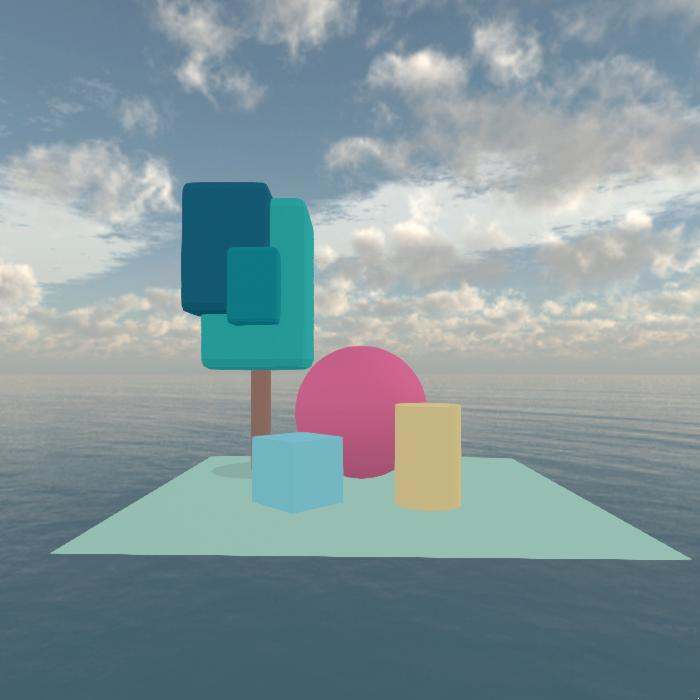
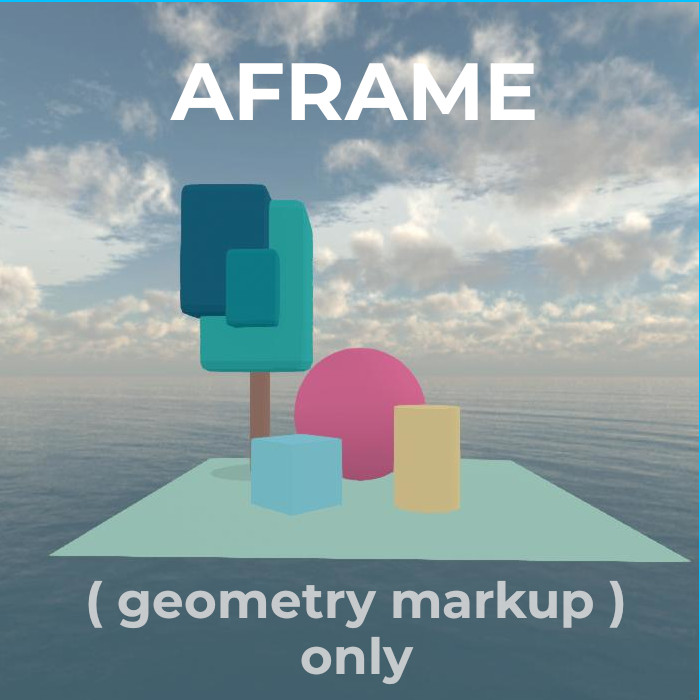
update

diff --git a/myverse/janusxr_tutorial/AFRAME/index.html b/myverse/janusxr_tutorial/AFRAME/index.html
@@ -1,3 +1,4 @@
+<!-- https://aframe.io/aframe/examples/boilerplate/hello-world/ -->
 <a-scene>
   <a-assets>
     <a-asset-item id="tree" src="tree2.glb"></a-asset-item>
